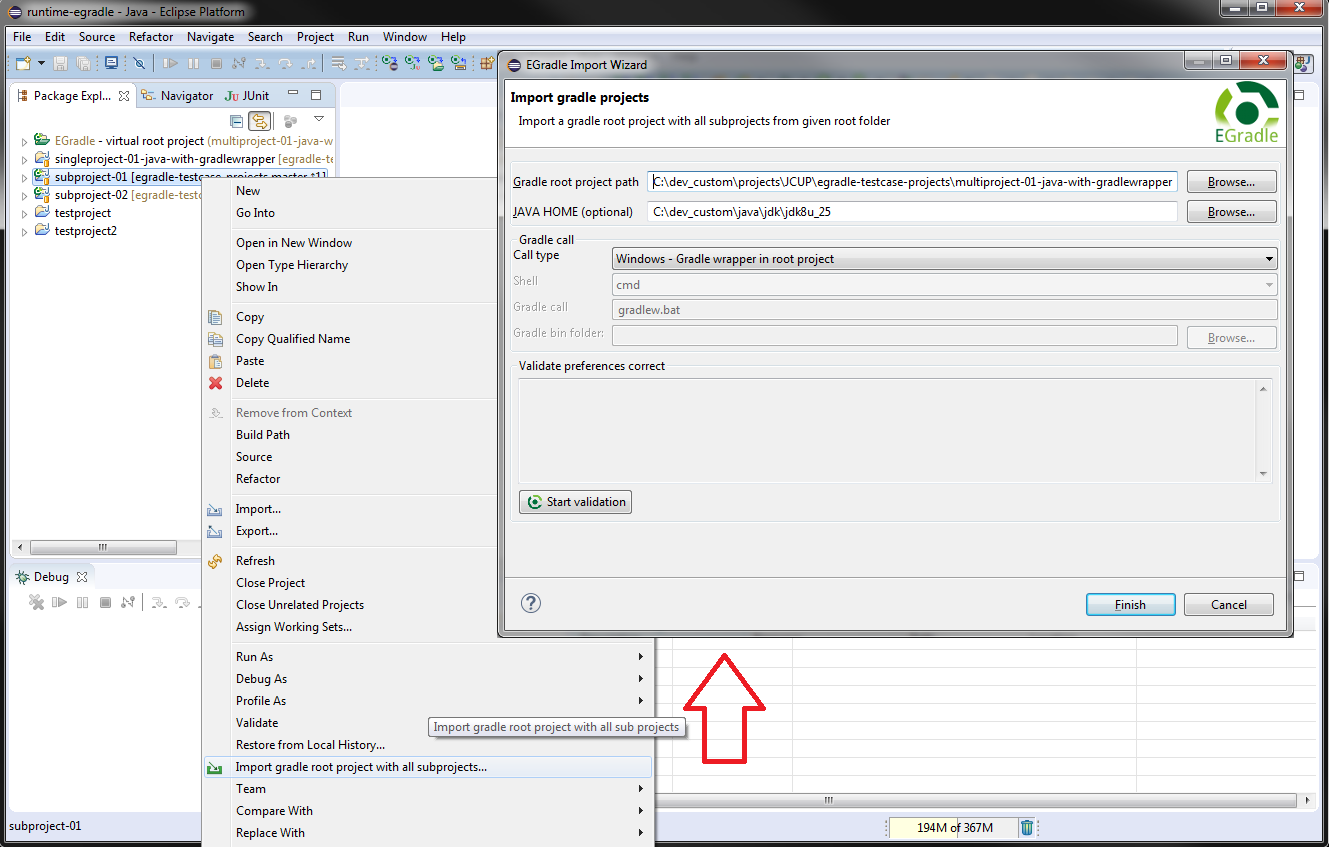
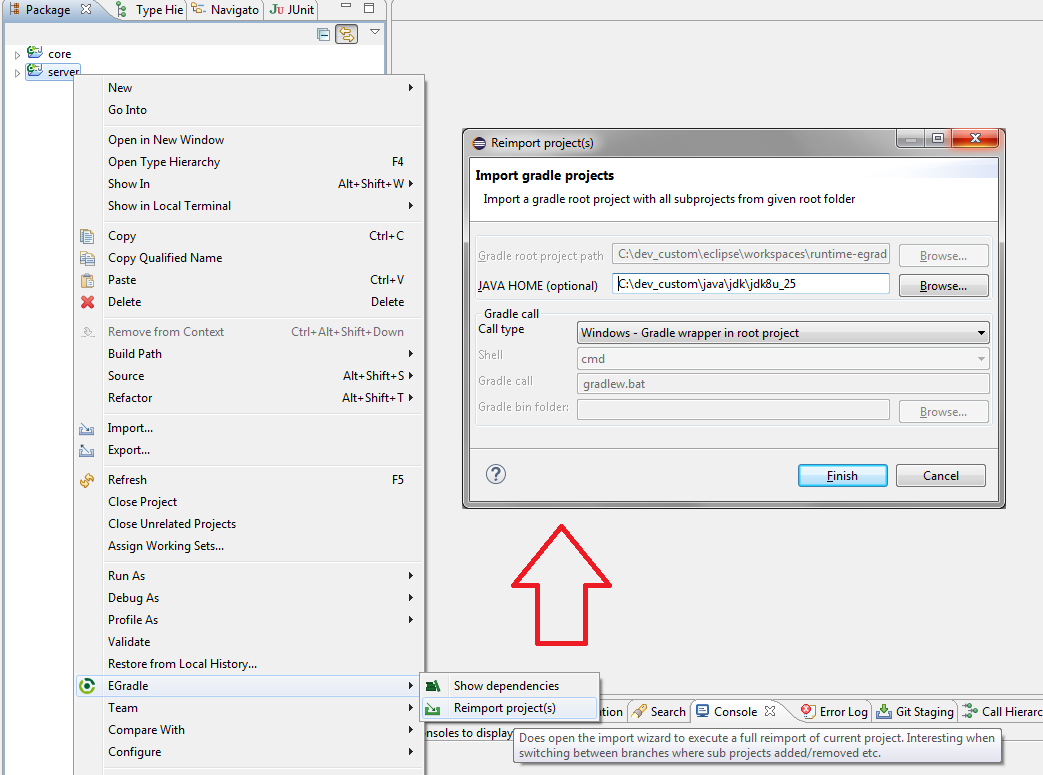
EGradle reimport has now own label, closes #277
- created own command to do reimport with own label
- opening wizard in PREDEFINED mode
- updated documentation

Changed region(s): [[0.0, 0.0, 1.0, 1.0]]

diff --git a/egradle-plugin-ide/src/main/java-eclipse/de/jcup/egradle/eclipse/ide/handlers/ReimportGradleProjectHandler.java b/egradle-plugin-ide/src/main/java-eclipse/de/jcup/egradle/eclipse/ide/handlers/ReimportGradleProjectHandler.java
@@ -1,0 +1,46 @@
+/*
+ * Copyright 2016 Albert Tregnaghi
+ *
+ * Licensed under the Apache License, Version 2.0 (the "License");
+ * you may not use this file except in compliance with the License.
+ * You may obtain a copy of the License at
+ *		http://www.apache.org/licenses/LICENSE-2.0
+ *
+ * Unless required by applicable law or agreed to in writing, software
+ * distributed under the License is distributed on an "AS IS" BASIS,
+ * WITHOUT WARRANTIES OR CONDITIONS OF ANY KIND, either express or implied.
+ * See the License for the specific language governing permissions
+ * and limitations under the License.
+ *
+ */
+package de.jcup.egradle.eclipse.ide.handlers;
+
+import org.eclipse.core.commands.AbstractHandler;
+import org.eclipse.core.commands.ExecutionEvent;
+import org.eclipse.core.commands.ExecutionException;
+import org.eclipse.jface.wizard.WizardDialog;
+import org.eclipse.swt.widgets.Shell;
+import org.eclipse.ui.handlers.HandlerUtil;
+
+import de.jcup.egradle.eclipse.ide.ui.RootProjectConfigMode;
+import de.jcup.egradle.eclipse.ide.wizards.EGradleRootProjectImportWizard;
+
+public class ReimportGradleProjectHandler extends AbstractHandler {
+	public static final String COMMAND_ID = "egradle.commands.reimportGradleProject";
+
+	@Override
+	public Object execute(ExecutionEvent event) throws ExecutionException {
+		Shell activeShell = HandlerUtil.getActiveShell(event);
+
+		EGradleRootProjectImportWizard wizard = new EGradleRootProjectImportWizard();
+		wizard.setImportMode(RootProjectConfigMode.PREDEFINED_VALUES);
+		wizard.setWindowTitle("Reimport project(s)");
+		
+		WizardDialog dialog = new WizardDialog(activeShell, wizard);
+
+		
+		dialog.open();
+		return null;
+	}
+
+}
